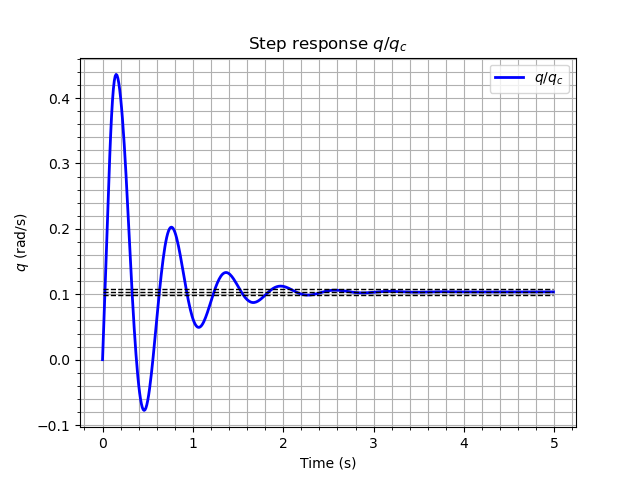
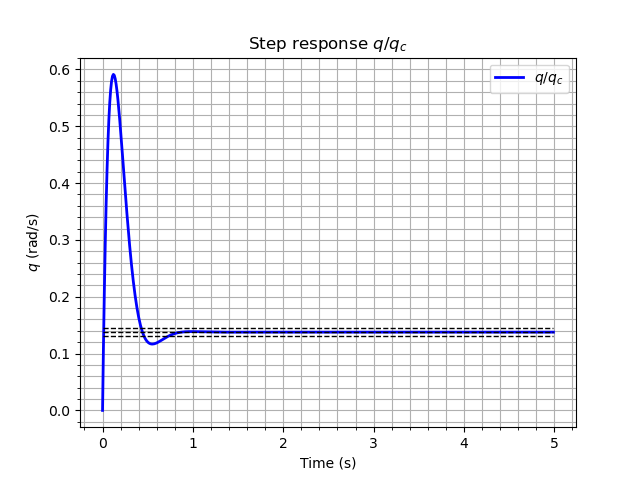
Update v2.01.2025:3

Changed region(s): [[0.0, 0.125, 0.9062, 0.9062]]

diff --git a/lib/control_aircraft_model.py b/lib/control_aircraft_model.py
@@ -22,8 +22,11 @@ except:
     
 import time
 
-OUTPUT_FIG_PATH = "D:\\IPSA\\Aero5\\2.12_au511_Modelisation_aeronef_pilote_automatique\\Modelisation-aeronef-pilote-automatique\\data\\fig"
-
+try:
+    OUTPUT_FIG_PATH = "D:\\IPSA\\Aero5\\2.12_au511_Modelisation_aeronef_pilote_automatique\\Modelisation-aeronef-pilote-automatique\\data\\fig"
+except:
+    OUTPUT_FIG_PATH = "C:\\Users\\valen\\OneDrive\\Documents\\IPSA\\5A\\pilote auto\\projet dernière version\\fig"
+    
 if not os.path.exists(OUTPUT_FIG_PATH):
     os.makedirs(OUTPUT_FIG_PATH)  # Crée les répertoires manquants
             
@@ -216,7 +219,7 @@ class ControlAircraftModel:
 
     
     def compute_B_array(self, Z_delta_m, m_delta_m):
-        self.matrix_B = np.array([0, Z_delta_m, -Z_delta_m, m_delta_m, 0, 0]).T
+        self.matrix_B = np.array([[0],[Z_delta_m],[-Z_delta_m],[m_delta_m],[0],[0]])
         
         
     def compute_C_array(self):
@@ -452,20 +455,36 @@ class ControlAircraftModel:
                     plt.show()
                     
         if label == 'q':
-            # Calcul pour q
+            # matrix definition 
             self.matrix_A_new = self.matrix_A[1:, 1:]
             self.matrix_B_new = self.matrix_B[1:]
-            self.matrix_C_q = np.zeros((5, 1))
-            self.matrix_C_q[2] = 1  # 2 correspond à l'index de q
-            self.matrix_C_q = self.matrix_C_q.T
+            self.matrix_C_q = np.array([[0], [0], [1], [0], [0]]).T
+            
+            #open loop definition 
             self.sys_q = control.ss(self.matrix_A_new, self.matrix_B_new, self.matrix_C_q, 0)
             self.TF_q = control.ss2tf(self.sys_q)
-            self.gain_Kr = -0.20954 #sisopy31.sisotool(1 * minreal(self.TF_q))
-            self.matrix_A_q = self.matrix_A_new - self.gain_Kr * np.dot(self.matrix_B_new, self.matrix_C_q.T)
+            print(f"voici la matrice q: {self.TF_q}")
+            #close loop matrix definition
+            self.gain_Kr = -0.20954#-0.20954 #sisopy31.sisotool(1 * minreal(self.TF_q))
+            self.matrix_A_q = self.matrix_A_new - (self.gain_Kr * np.dot(self.matrix_B_new, self.matrix_C_q))
             self.matrix_B_q = self.gain_Kr * self.matrix_B_new
             self.matrix_D_q = self.gain_Kr * self.matrix_D
+            
+            #we plot the result
+            fig, ax = plt.subplots()
+            Yqol, Tqol = control.matlab.step(self.TF_q, np.arange(0, 5, 0.01))
+            plot_step_response(
+                ax=ax,
+                T1=Tqol,
+                Y1=Yqol,
+                labels=[r"$q$"],
+                title=r"Step response open loop $q$",
+                xlabel="Time (s)",
+                ylabel=r"$q$ (rad/s)",
+                fig_name="Step_Response_open_loop_q",
+            )
+            
             self.closedloop_sys_q = control.ss(self.matrix_A_q, self.matrix_B_q, self.matrix_C_q, 0)  # Create the state space system
-
             control.matlab.damp(self.closedloop_sys_q)
             self.Closed_Tf_ss_q = control.tf(self.closedloop_sys_q)
 
@@ -538,7 +557,7 @@ class ControlAircraftModel:
             self.sys_gamma = control.ss(self.matrix_A_q, self.matrix_B_q, self.matrix_C_gamma, 0)
             self.TF_gamma = control.ss2tf(self.sys_gamma)
             self.gain_Kg = 16.4 #sisopy31.sisotool(1 * minreal(self.TF_gamma))
-            self.matrix_A_gamma = self.matrix_A_q - self.gain_Kg * np.dot(self.matrix_B_q, self.matrix_C_gamma.T)
+            self.matrix_A_gamma = self.matrix_A_q - self.gain_Kg * np.dot(self.matrix_B_q, self.matrix_C_gamma)
             self.matrix_B_gamma = self.gain_Kg * self.matrix_B_q
             self.matrix_D_gamma = self.gain_Kg * self.matrix_D
 
@@ -568,8 +587,8 @@ class ControlAircraftModel:
             self.matrix_C_z = self.matrix_C_z.T
             self.sys_z = control.ss(self.matrix_A_gamma, self.matrix_B_gamma, self.matrix_C_z, 0)
             self.TF_z = control.ss2tf(self.sys_z)
-            self.gain_Kz = 0.00010 #sisopy31.sisotool(1 * minreal(self.TF_z))
-            self.matrix_A_z = self.matrix_A_gamma - self.gain_Kz * np.dot(self.matrix_B_gamma, self.matrix_C_z.T)
+            self.gain_Kz = sisopy31.sisotool(1 * minreal(self.TF_z)) #0.0010 #sisopy31.sisotool(1 * minreal(self.TF_z))
+            self.matrix_A_z = self.matrix_A_gamma - self.gain_Kz * np.dot(self.matrix_B_gamma, self.matrix_C_z)
             self.matrix_B_z = self.gain_Kz * self.matrix_B_gamma
             self.matrix_D_z = self.gain_Kz * self.matrix_D
 
@@ -587,7 +606,7 @@ class ControlAircraftModel:
                 labels=[r"$z/z_c$"],
                 title=r"Step response $z/z_c$",
                 xlabel="Time (s)",
-                ylabel=r"$q$ (rad/s)",
+                ylabel=r"$z$ (rad/s)",
                 fig_name="Step_Response_z_zc",
             )
             

diff --git a/main.py b/main.py
@@ -9,44 +9,61 @@ import lib.atm_std as atm_std
 
 def main():
     aircraft = ControlAircraftModel()
-    aircraft.save_fig = False
+    aircraft.save_fig = True
     display_cam = Display_CAM(aircraft)
+    display_process_time = False
     
     display_cam.process('Aircraft Characteristics')
     #display_cam.aircraft_parameters()
     
     display_cam.process('Find : Eq. Point')
-    display_time_process(aircraft.equilibrium_conditions)
+    if display_process_time:
+        display_time_process(aircraft.equilibrium_conditions)
+    else:aircraft.equilibrium_conditions()
+        
     #display_cam.equilibrium_condition_values()
     
     display_cam.process('State Space arround Eq Point')
-    display_time_process(aircraft.compute_dynamic_matrix)
-    display_time_process(aircraft.compute_control_matrix)
-    #display_cam.matrix()
+    if display_process_time:
+        display_time_process(aircraft.compute_dynamic_matrix)
+        display_time_process(aircraft.compute_control_matrix)
+    else:
+        aircraft.compute_dynamic_matrix()
+        aircraft.compute_control_matrix()
+    display_cam.matrix()
     
     display_cam.process('Study : Study of open loop modes')
-    display_time_process(aircraft.open_loop)
+    if display_process_time:
+        display_time_process(aircraft.open_loop)
+    else:aircraft.open_loop()
     #display_cam.open_loop()
 
     
     display_cam.process('Study : Transient phase of the uncontrolled aircraft')
-    display_time_process(aircraft.compute_transient_phase)
+    if display_process_time:
+        display_time_process(aircraft.compute_transient_phase)
+    else:aircraft.compute_transient_phase()
     #display_cam.transient_phase()
     #display_cam.plot_step_response()
     
     display_cam.process('Build : q FEEDBACK LOOP')
-    display_time_process(lambda:aircraft.compute_feedback_loop('q'))
-    display_cam.closedloop_TF('q')
+    if display_process_time:
+        display_time_process(lambda:aircraft.compute_feedback_loop('q'))
+    else:aircraft.compute_feedback_loop('q')
+    #display_cam.closedloop_TF('q')
     
     display_cam.process('Build : gamma FEEDBACK LOOP')
-    display_time_process(lambda:aircraft.compute_feedback_loop('gamma'))
-    display_cam.closedloop_TF('gamma')
+    if display_process_time:
+        display_time_process(lambda:aircraft.compute_feedback_loop('gamma'))
+    else:aircraft.compute_feedback_loop('gamma')
+    #display_cam.closedloop_TF('gamma')
     
     display_cam.process('Build : z FEEDBACK LOOP')
-    display_time_process(lambda:aircraft.compute_feedback_loop('z'))
-    display_cam.closedloop_TF('z')
-    
-    display_cam.gain_k()
+    if display_process_time:
+        display_time_process(lambda:aircraft.compute_feedback_loop('z'))
+    else:aircraft.compute_feedback_loop('z')
+    #display_cam.closedloop_TF('z')    
+    #display_cam.gain_k()
 
 
 if __name__ == '__main__':
